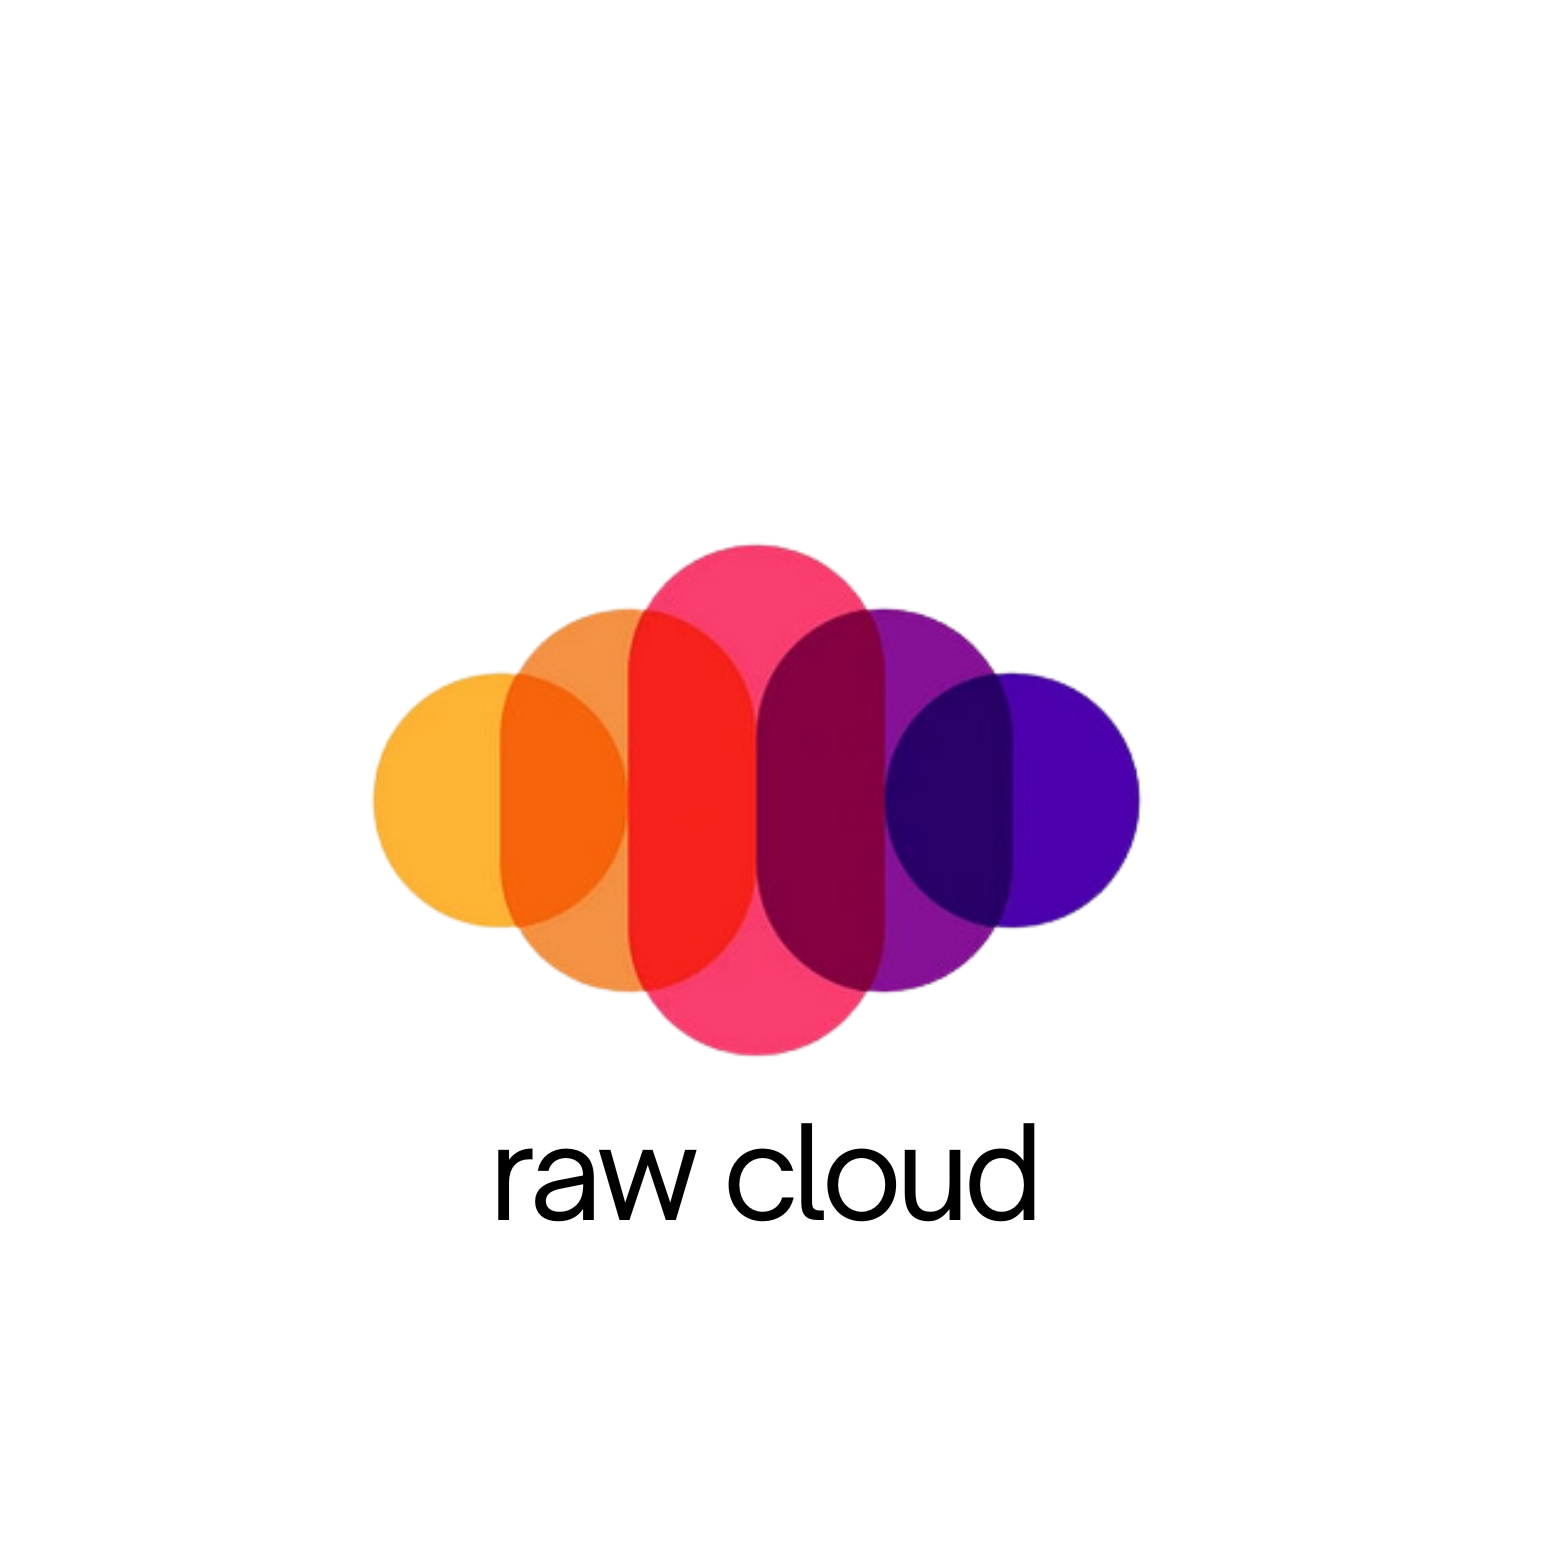
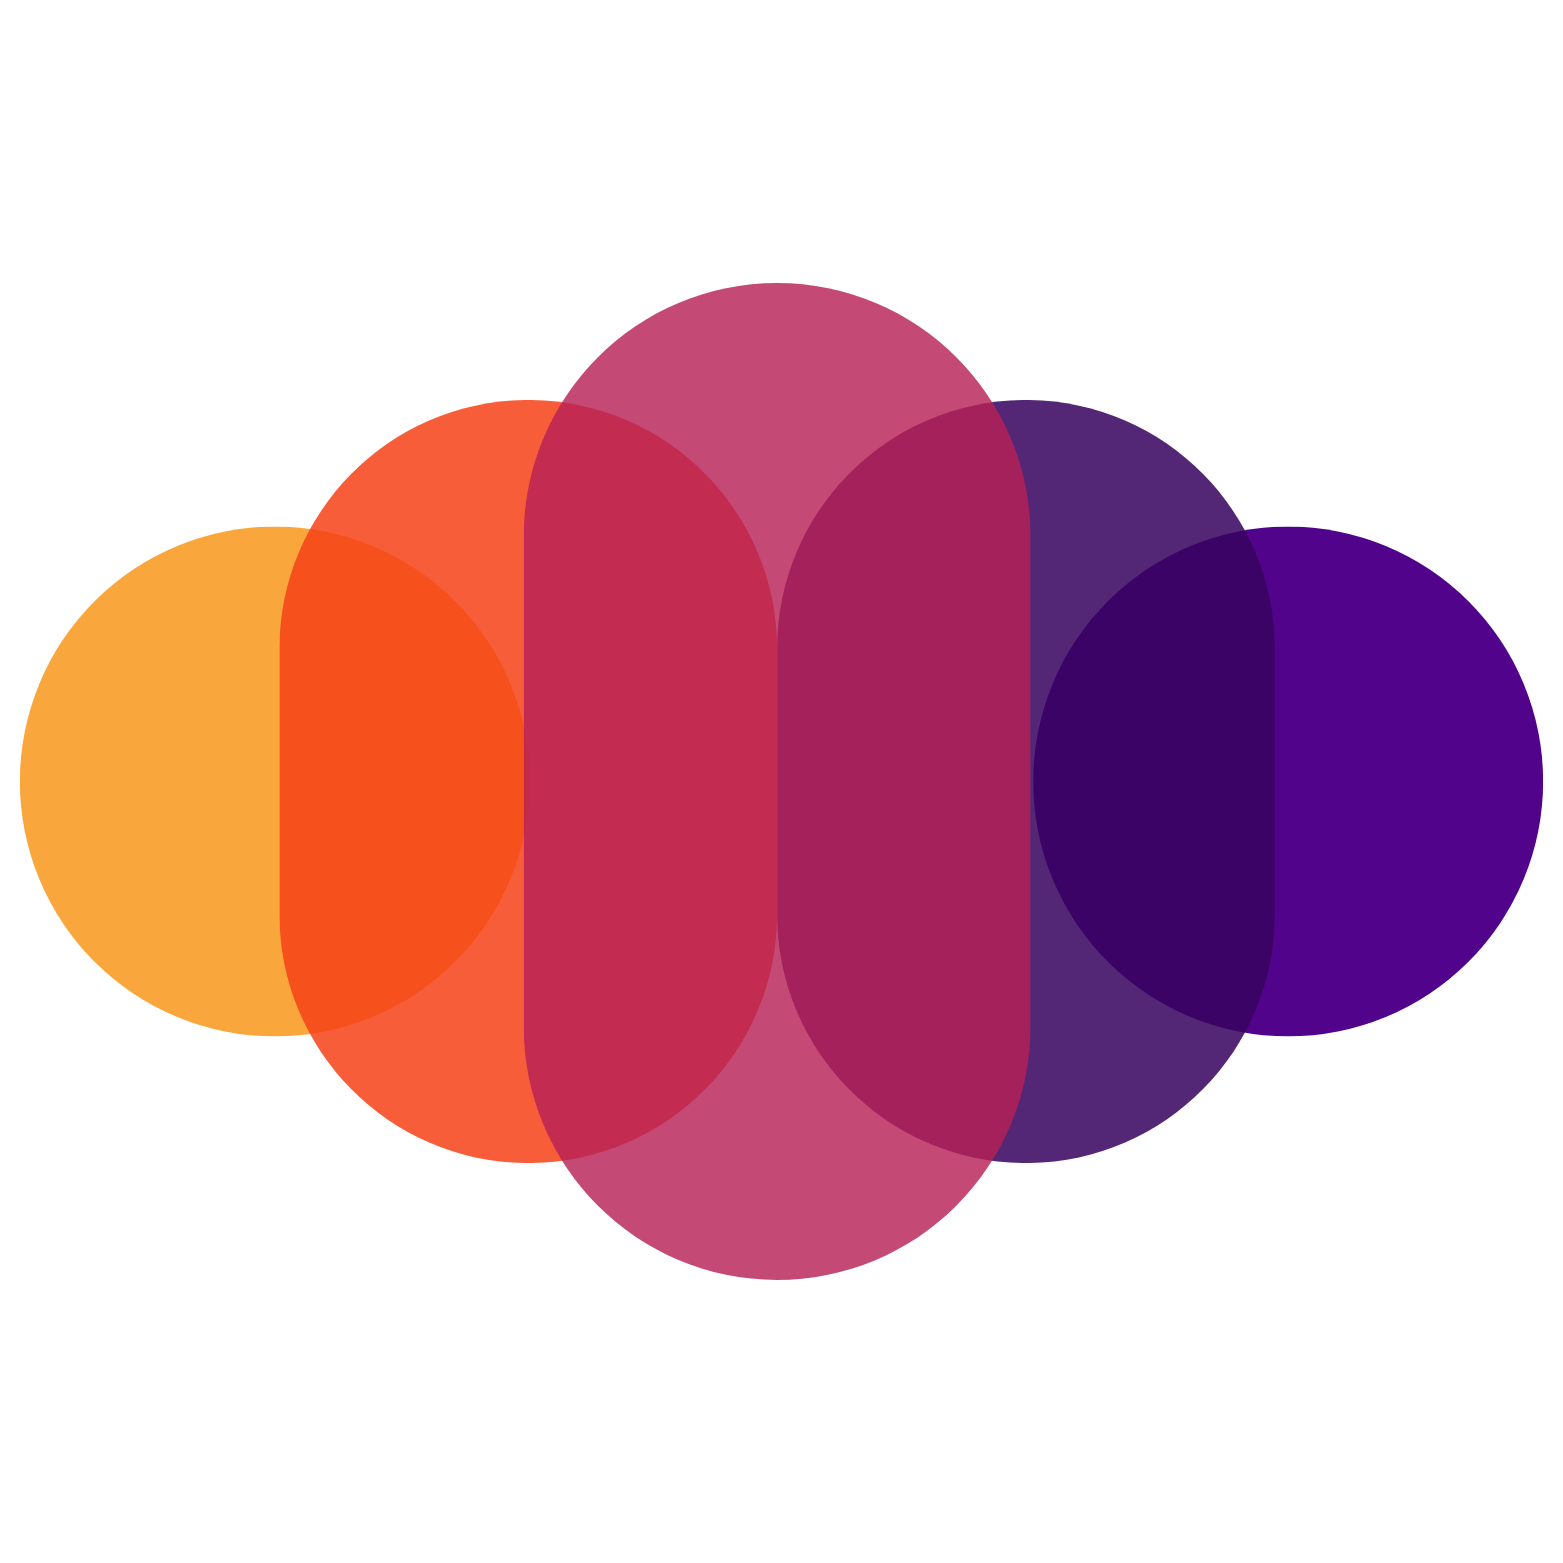
refactor: update layout styles, improve sidebar component, and enhance session client error handling

diff --git a/tailwind.config.ts b/tailwind.config.ts
@@ -8,100 +8,98 @@ const config: Config = {
     "./app/**/*.{js,ts,jsx,tsx,mdx}",
   ],
   theme: {
-  	extend: {
-  		colors: {
-  			brand: {
-  				'100': '#EA6365',
-  				DEFAULT: '#FA7275'
-  			},
-  			red: '#FF7474',
-  			error: '#b80000',
-  			green: '#3DD9B3',
-  			blue: '#56B8FF',
-  			pink: '#EEA8FD',
-  			orange: '#F9AB72',
-  			light: {
-  				'100': '#333F4E',
-  				'200': '#A3B2C7',
-  				'300': '#F2F5F9',
-  				'400': '#F2F4F8'
-  			},
-  			'dark-200': '#2D2D2D',
-  			background: 'hsl(var(--background))',
-  			foreground: 'hsl(var(--foreground))',
-  			card: {
-  				DEFAULT: 'hsl(var(--card))',
-  				foreground: 'hsl(var(--card-foreground))'
-  			},
-  			popover: {
-  				DEFAULT: 'hsl(var(--popover))',
-  				foreground: 'hsl(var(--popover-foreground))'
-  			},
-  			primary: {
-  				DEFAULT: 'hsl(var(--primary))',
-  				foreground: 'hsl(var(--primary-foreground))'
-  			},
-  			secondary: {
-  				DEFAULT: 'hsl(var(--secondary))',
-  				foreground: 'hsl(var(--secondary-foreground))'
-  			},
-  			muted: {
-  				DEFAULT: 'hsl(var(--muted))',
-  				foreground: 'hsl(var(--muted-foreground))'
-  			},
-  			accent: {
-  				DEFAULT: 'hsl(var(--accent))',
-  				foreground: 'hsl(var(--accent-foreground))'
-  			},
-  			destructive: {
-  				DEFAULT: 'hsl(var(--destructive))',
-  				foreground: 'hsl(var(--destructive-foreground))'
-  			},
-  			border: 'hsl(var(--border))',
-  			input: 'hsl(var(--input))',
-  			ring: 'hsl(var(--ring))',
-  			chart: {
-  				'1': 'hsl(var(--chart-1))',
-  				'2': 'hsl(var(--chart-2))',
-  				'3': 'hsl(var(--chart-3))',
-  				'4': 'hsl(var(--chart-4))',
-  				'5': 'hsl(var(--chart-5))',
-  				'1': 'hsl(var(--chart-1))',
-  				'2': 'hsl(var(--chart-2))',
-  				'3': 'hsl(var(--chart-3))',
-  				'4': 'hsl(var(--chart-4))',
-  				'5': 'hsl(var(--chart-5))'
-  			}
-  		},
-  		fontFamily: {
-  			poppins: [
-  				'var(--font-poppins)'
-  			]
-  		},
-  		boxShadow: {
-  			'drop-1': '0px 10px 30px 0px rgba(66, 71, 97, 0.1)',
-  			'drop-2': '0 8px 30px 0 rgba(65, 89, 214, 0.3)',
-  			'drop-3': '0 8px 30px 0 rgba(65, 89, 214, 0.1)'
-  		},
-  		borderRadius: {
-  			lg: 'var(--radius)',
-  			md: 'calc(var(--radius) - 2px)',
-  			sm: 'calc(var(--radius) - 4px)'
-  		},
-  		keyframes: {
-  			'caret-blink': {
-  				'0%,70%,100%': {
-  					opacity: '1'
-  				},
-  				'20%,50%': {
-  					opacity: '0'
-  				}
-  			}
-  		},
-  		animation: {
-  			'caret-blink': 'caret-blink 1.25s ease-out infinite'
-  		}
-  	}
+    extend: {
+      colors: {
+        brand: {
+          "100": "#552573",
+          DEFAULT: "#A3205B",
+        },
+        red: "#FF7474",
+        error: "#b80000",
+        green: "#3DD9B3",
+        blue: "#56B8FF",
+        pink: "#EEA8FD",
+        orange: "#F9AB72",
+        light: {
+          "100": "#333F4E",
+          "200": "#A3B2C7",
+          "300": "#F2F5F9",
+          "400": "#F2F4F8",
+        },
+        "dark-200": "#2D2D2D",
+        background: "hsl(var(--background))",
+        foreground: "hsl(var(--foreground))",
+        card: {
+          DEFAULT: "hsl(var(--card))",
+          foreground: "hsl(var(--card-foreground))",
+        },
+        popover: {
+          DEFAULT: "hsl(var(--popover))",
+          foreground: "hsl(var(--popover-foreground))",
+        },
+        primary: {
+          DEFAULT: "hsl(var(--primary))",
+          foreground: "hsl(var(--primary-foreground))",
+        },
+        secondary: {
+          DEFAULT: "hsl(var(--secondary))",
+          foreground: "hsl(var(--secondary-foreground))",
+        },
+        muted: {
+          DEFAULT: "hsl(var(--muted))",
+          foreground: "hsl(var(--muted-foreground))",
+        },
+        accent: {
+          DEFAULT: "hsl(var(--accent))",
+          foreground: "hsl(var(--accent-foreground))",
+        },
+        destructive: {
+          DEFAULT: "hsl(var(--destructive))",
+          foreground: "hsl(var(--destructive-foreground))",
+        },
+        border: "hsl(var(--border))",
+        input: "hsl(var(--input))",
+        ring: "hsl(var(--ring))",
+        chart: {
+          "1": "hsl(var(--chart-1))",
+          "2": "hsl(var(--chart-2))",
+          "3": "hsl(var(--chart-3))",
+          "4": "hsl(var(--chart-4))",
+          "5": "hsl(var(--chart-5))",
+          "1": "hsl(var(--chart-1))",
+          "2": "hsl(var(--chart-2))",
+          "3": "hsl(var(--chart-3))",
+          "4": "hsl(var(--chart-4))",
+          "5": "hsl(var(--chart-5))",
+        },
+      },
+      fontFamily: {
+        poppins: ["var(--font-poppins)"],
+      },
+      boxShadow: {
+        "drop-1": "0px 10px 30px 0px rgba(66, 71, 97, 0.1)",
+        "drop-2": "0 8px 30px 0 rgba(65, 89, 214, 0.3)",
+        "drop-3": "0 8px 30px 0 rgba(65, 89, 214, 0.1)",
+      },
+      borderRadius: {
+        lg: "var(--radius)",
+        md: "calc(var(--radius) - 2px)",
+        sm: "calc(var(--radius) - 4px)",
+      },
+      keyframes: {
+        "caret-blink": {
+          "0%,70%,100%": {
+            opacity: "1",
+          },
+          "20%,50%": {
+            opacity: "0",
+          },
+        },
+      },
+      animation: {
+        "caret-blink": "caret-blink 1.25s ease-out infinite",
+      },
+    },
   },
   plugins: [require("tailwindcss-animate")],
 };

diff --git a/components/Sidebar.tsx b/components/Sidebar.tsx
@@ -5,7 +5,12 @@ import { cn } from "@/lib/utils";
 import Image from "next/image";
 import Link from "next/link";
 import { usePathname } from "next/navigation";
+const outfit = Outfit({
+  subsets: ["latin"],
+  variable: "--font-outfit",
+});
 import React from "react";
+import { Outfit } from "next/font/google";
 
 interface Props {
   fullName: string;
@@ -16,16 +21,20 @@ interface Props {
 const Sidebar = ({ fullName, avatar, email }: Props) => {
   const pathName = usePathname();
   return (
-    <aside className="sidebar">
+    <aside className="h-screen sticky top-0 overflow-hidden">
       <Link href="#" className="sidebar">
-        <Image
-          src="/assets/images/rawCloud.png"
-          alt="logo"
-          width={160}
-          height={50}
-          className="hidden h-auto md:block"
-        />
-
+        <div className="flex gap-5 items-center">
+          <Image
+            src="/assets/images/rawCloud.png"
+            alt="logo"
+            width={100}
+            height={100}
+            className="hidden h-auto md:block"
+          />
+          <h1 className={`${outfit.variable} text-2xl font-semibold`}>
+            Raw cloud
+          </h1>
+        </div>
         <Image
           src="/assets/images/rawCloud.png"
           alt="logo"
@@ -63,13 +72,6 @@ const Sidebar = ({ fullName, avatar, email }: Props) => {
             })}
           </ul>
         </nav>
-        <Image
-          src="/assets/images/files-2.png"
-          alt="filelogo"
-          width={506}
-          height={418}
-          className="w-full"
-        />
         <div className="sidebar-user-info">
           <Image
             src="/assets/images/avatar.png"

diff --git a/lib/appwrite/index.ts b/lib/appwrite/index.ts
@@ -6,25 +6,30 @@ import { cookies } from "next/headers";
 import { get } from "http";
 
 export const createSessionClient = async () => {
-  const client = new Client()
-    .setEndpoint(appwriteConfig.endpointUrl)
-    .setProject(appwriteConfig.projectId);
+  try {
+    const client = new Client()
+      .setEndpoint(appwriteConfig.endpointUrl)
+      .setProject(appwriteConfig.projectId);
 
-  const session = (await cookies()).get("appwrite-session");
+    const session = (await cookies()).get("appwrite-session");
 
-  if (!session || !session.value) throw new Error("No session found");
+    if (!session || !session.value) throw new Error("No session found");
 
-  client.setSession(session.value);
+    client.setSession(session.value);
 
-  return {
-    get account() {
-      return new Account(client);
-    },
+    return {
+      get account() {
+        return new Account(client);
+      },
 
-    get databases() {
-      return new Databases(client);
-    },
-  };
+      get databases() {
+        return new Databases(client);
+      },
+    };
+  } catch (error) {
+    console.error("Failed to create session client:", error);
+    throw error;
+  }
 };
 
 export const createAdminClient = async () => {

diff --git a/app/globals.css b/app/globals.css
@@ -202,7 +202,7 @@
 
   /* Root Layout */
   .main-content {
-    @apply remove-scrollbar h-full flex-1 overflow-auto bg-light-400 px-5 py-7 sm:mr-7 sm:rounded-[30px] md:mb-7 md:px-9 md:py-10 !important;
+    @apply remove-scrollbar h-full flex-1 overflow-auto bg-light-400 px-5 py-7 sm:mr-7 sm:rounded-[10px] md:mb-7 md:px-6 md:py-5 !important;
   }
 
   /* Dashboard */
@@ -402,7 +402,7 @@
     @apply relative w-full md:max-w-[480px] !important;
   }
   .search-input-wrapper {
-    @apply flex h-[52px] flex-1 items-center gap-3 rounded-full px-4 shadow-drop-3 !important;
+    @apply flex h-[52px] flex-1 items-center gap-3 rounded-full px-4 border !important;
   }
   .search-input {
     @apply body-2 shad-no-focus  placeholder:body-1 w-full border-none p-0 shadow-none placeholder:text-light-200 !important;

diff --git a/app/(root)/[type]/page.tsx b/app/(root)/[type]/page.tsx
@@ -10,7 +10,6 @@ const Page = async ({ searchParams, params }: SearchParamProps) => {
   const types = getFileTypesParams(type) as FileType[];
   const searchText = ((await searchParams)?.query as string) || "";
   const sort = ((await searchParams)?.sort as string) || "";
-
   const files = await getFile({ types, searchText, sort });
   return (
     <div className="page-container">

diff --git a/constants/index.ts b/constants/index.ts
@@ -1,6 +1,6 @@
 export const navItems = [
   {
-    name: "Dashboard",
+    name: "Overview",
     icon: "/assets/icons/dashboard.svg",
     url: "/",
   },
